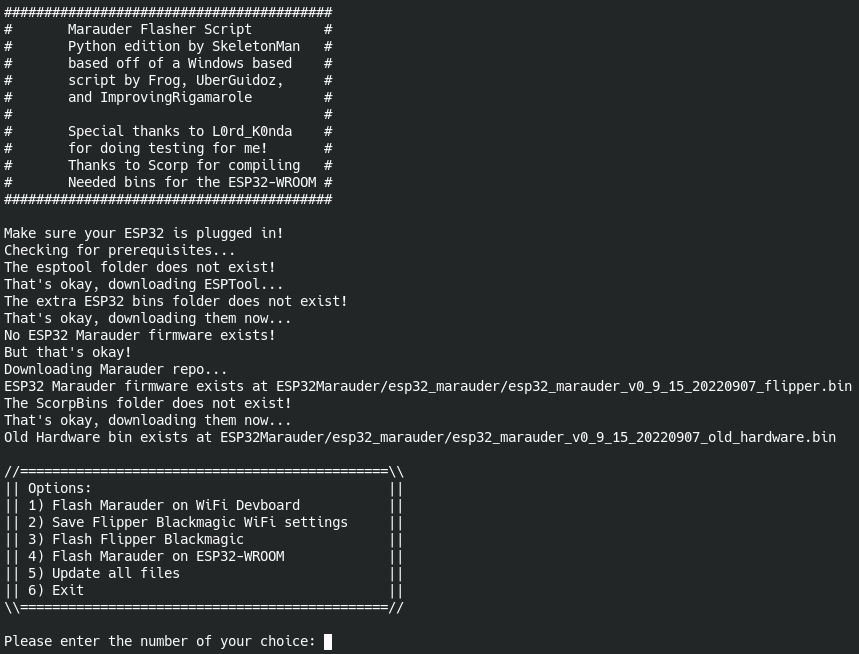
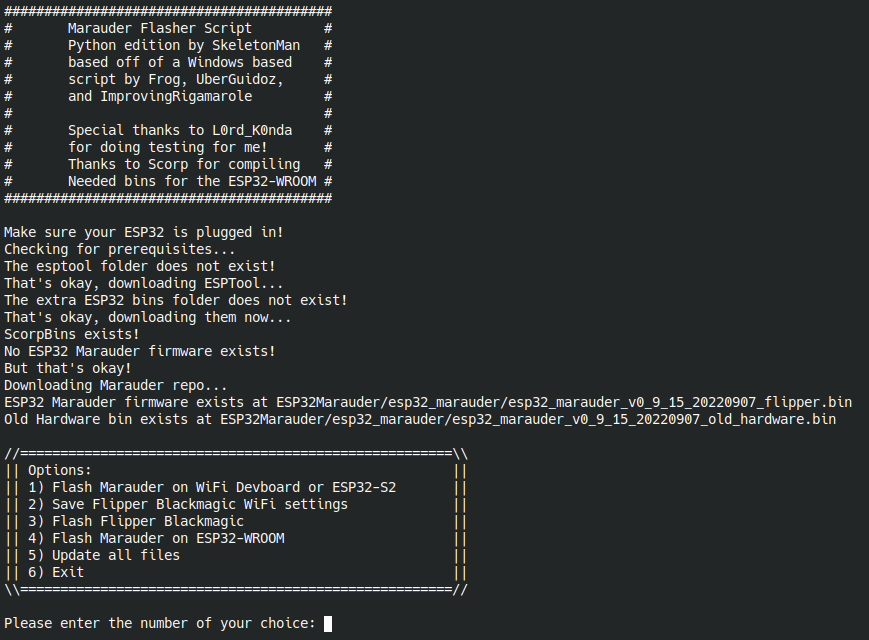
Minor update

Changed region(s): [[0.0, 0.0, 0.9988, 0.9375], [0.0, 0.9688, 0.3935, 1.0]]

diff --git a/EasyInstall.py b/EasyInstall.py
@@ -33,7 +33,7 @@ def checkfordevboardserialport():
 		if vid in port.hwid:
 			serialport=port.device
 		else:
-			print("WiFi Devboard not plugged in!")
+			print("WiFi Devboard or ESP32-S2 not plugged in!")
 	return
 
 def checkforesp32serialport():
@@ -45,7 +45,7 @@ def checkforesp32serialport():
 		if vid in port.hwid:
 			serialport=port.device
 		else:
-			print("ESP32 not plugged in!")
+			print("ESP32-WROOM not plugged in!")
 	return
 
 def checkforesptool():
@@ -84,21 +84,21 @@ def checkforextrabins():
 
 def choose_fw():
 	choices='''
-//==============================================\\\ 
-|| Options:					||
-|| 1) Flash Marauder on WiFi Devboard		||
-|| 2) Save Flipper Blackmagic WiFi settings	||
-|| 3) Flash Flipper Blackmagic			||
-|| 4) Flash Marauder on ESP32-WROOM		||
-|| 5) Update all files				||
-|| 6) Exit					||
-\\\==============================================//
+//======================================================\\\ 
+|| Options:						||
+|| 1) Flash Marauder on WiFi Devboard or ESP32-S2	||
+|| 2) Save Flipper Blackmagic WiFi settings		||
+|| 3) Flash Flipper Blackmagic				||
+|| 4) Flash Marauder on ESP32-WROOM			||
+|| 5) Update all files					||
+|| 6) Exit						||
+\\\======================================================//
 '''
 	global chip
 	print(choices)
 	fwchoice=int(input("Please enter the number of your choice: "))
 	if fwchoice==1:
-		print("You have chosen to flash Marauder on a WiFi devboard!")
+		print("You have chosen to flash Marauder on a WiFi devboard or ESP32-S2!")
 		chip="esp32s2"
 		checkfordevboardserialport()
 		flash_esp32marauder()
@@ -183,10 +183,10 @@ def flash_esp32marauder():
 
 def flash_esp32wroom():
 	global serialport
-	print("Flashing ESP32 Marauder Firmware onto ESP32-Wroom...")
+	print("Flashing ESP32 Marauder Firmware onto ESP32-WROOM...")
 	erase_esp32fw()
 	os.system("python3 "+esptoolfile+" -p"+serialport+" -b"+BR+" --before default_reset --after hard_reset -c esp32 write_flash --flash_mode dio --flash_freq 80m --flash_size 2MB 0x8000 "+scorpbins+"/partitions.bin 0x1000 "+scorpbins+"/bootloader.bin 0x10000 "+espoldhardwarefw)
-	print("ESP32-Wroom has been flashed with Marauder!")
+	print("ESP32-WROOM has been flashed with Marauder!")
 	return
 
 def save_flipperbmsettings():

diff --git a/README.md b/README.md
@@ -28,6 +28,11 @@ This script pulls all of its resources from the proper Github repositories in or
 The only dependencies it does not get by itself are the required Python modules and Windows tools.  
 This script is now capable of flashing Marauder onto an ESP32-WROOM!
 
+## Compatible boards
+* Flipper Zero WiFi Devboard  
+* ESP32-S2 (The ESP chip that is on the WiFi Devboard)  
+* ESP32-WROOM  
+
 ## TODO:
 Code cleanup.  
 Add more chip compatibility.
